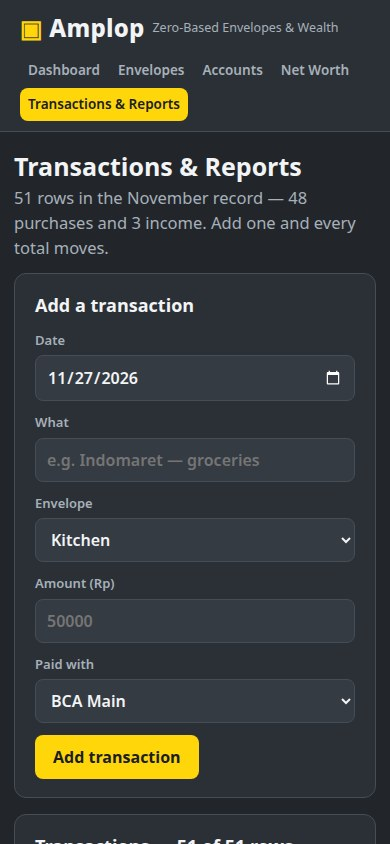
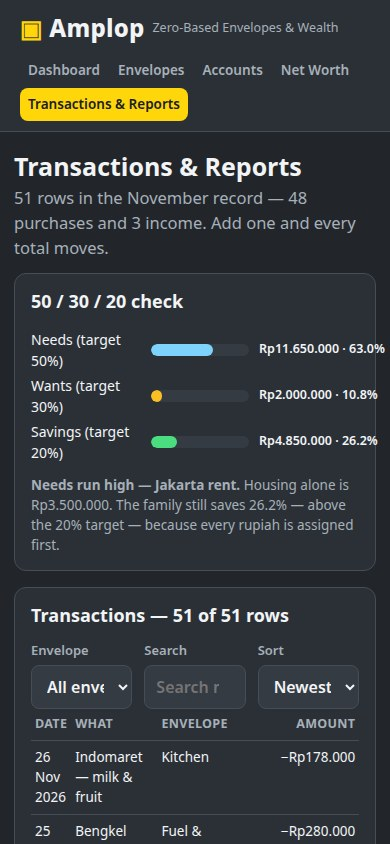
Fix pass 2: F-05 — ledger + 50/30/20 gauge now visible in shot 4 phone frame
Reorder #/transactions: 50/30/20 gauge first, ledger second, add-tx form
after the ledger (option b + gauge above ledger). Measured geometry
showed option (a) alone leaves the gauge ~5,000px below the fold
(51-row table is 4,410px tall), and a closed <details> would break
the scripted add-tx probes that fill the form directly; the form
stays fully open and functional, probes unchanged.
Phone-only (<=640px) compaction so both fit 390x844: filter fits one
row, gauge summary line (duplicate of bar values) + redundant table
caption hidden, ledger table hides 'Paid with' column and tightens
cells so Date/What/Envelope/Amount all fit without horizontal scroll.
Shot 4 re-shot from the same build: gauge fully visible (Needs
Rp11.650.000 63.0% / Wants Rp2.000.000 10.8% / Savings Rp4.850.000
26.2%) + ledger header, filter and first row (26 Nov 2026, Indomaret
— milk & fruit, Kitchen, -Rp178.000) fully in frame. Shots 1-3
byte-identical. No numbers changed; reconcile 56/56 exit 0;
determinism 2x identical (d56e169d...); grader sim (nobody, TZ=UTC)
exit 0, same dossier hash. B3 tagline untouched; no slimming.

diff --git a/app/views.js b/app/views.js
@@ -25,7 +25,7 @@ function txRows(txs, envById) {
 }
 
 function txTable(txs, envById, caption) {
-  return `<table class="tbl"><caption>${caption}</caption><thead><tr><th>Date</th><th>What</th><th>Envelope</th><th>Paid with</th><th class="num">Amount</th></tr></thead><tbody>${txRows(txs, envById)}</tbody></table>`;
+  return `<table class="tbl ledger"><caption>${caption}</caption><thead><tr><th>Date</th><th>What</th><th>Envelope</th><th>Paid with</th><th class="num">Amount</th></tr></thead><tbody>${txRows(txs, envById)}</tbody></table>`;
 }
 
 function envById(state) {
@@ -305,15 +305,14 @@ export function transactions(state, ui) {
     <p class="lede">${state.transactions.length} rows in the November record — ${state.transactions.filter((x) => x.type === 'expense').length} purchases and ${state.transactions.filter((x) => x.type === 'income').length} income. Add one and every total moves.</p>
   </section>
   <section class="card">
-    <h2>Add a transaction</h2>
-    <form data-action="add-tx" class="form-row">
-      <label>Date<input name="date" type="date" value="2026-11-27" min="2026-11-01" max="2026-11-30" required></label>
-      <label>What<input name="merchant" type="text" maxlength="60" placeholder="e.g. Indomaret — groceries" required></label>
-      <label>Envelope<select name="envelope">${state.envelopes.filter((e) => e.kind === 'spending').map((e) => `<option value="${e.id}">${esc(e.name)}</option>`).join('')}</select></label>
-      <label>Amount (Rp)<input name="amount" type="number" min="1" step="1" inputmode="numeric" placeholder="50000" required></label>
-      <label>Paid with<select name="method"><option>BCA Main</option><option>BCA Savings</option><option>GoPay</option><option>OVO</option><option>DANA</option><option>Cash</option></select></label>
-      <button class="btn" type="submit">Add transaction</button>
-    </form>
+    <h2>50 / 30 / 20 check</h2>
+    <p class="lede-sm gauge-sum">Needs ${fmtPct(r.needsPct, 0)} · Wants ${fmtPct(r.wantsPct, 0)} · Savings ${fmtPct(r.savingsPct, 0)} — of ${fmtRp(r.total)} assigned.</p>
+    ${hbars([
+      { label: 'Needs (target 50%)', value: r.needs, text: `${fmtRp(r.needs)} · ${fmtPct(r.needsPct)}`, color: '#7DD3FC' },
+      { label: 'Wants (target 30%)', value: r.wants, text: `${fmtRp(r.wants)} · ${fmtPct(r.wantsPct)}`, color: '#FBBF24' },
+      { label: 'Savings (target 20%)', value: r.savings, text: `${fmtRp(r.savings)} · ${fmtPct(r.savingsPct)}`, color: '#4ADE80' },
+    ], r.total)}
+    <p class="fine"><strong>Needs run high — Jakarta rent.</strong> Housing alone is ${fmtRp(3500000)}. The family still saves ${fmtPct(r.savingsPct)} — above the 20% target — because every rupiah is assigned first.</p>
   </section>
   <section class="card">
     <h2>Transactions — ${rows.length} of ${state.transactions.length} rows</h2>
@@ -328,29 +327,28 @@ export function transactions(state, ui) {
     </form>
     <div class="table-scroll">${txTable(rows, byId, `Transactions, ${rows.length} rows shown`)}</div>
   </section>
-  <div class="grid-2">
-    <section class="card">
-      <h2>50 / 30 / 20 check</h2>
-      <p class="lede-sm">Needs ${fmtPct(r.needsPct, 0)} · Wants ${fmtPct(r.wantsPct, 0)} · Savings ${fmtPct(r.savingsPct, 0)} — of ${fmtRp(r.total)} assigned.</p>
-      ${hbars([
-        { label: 'Needs (target 50%)', value: r.needs, text: `${fmtRp(r.needs)} · ${fmtPct(r.needsPct)}`, color: '#7DD3FC' },
-        { label: 'Wants (target 30%)', value: r.wants, text: `${fmtRp(r.wants)} · ${fmtPct(r.wantsPct)}`, color: '#FBBF24' },
-        { label: 'Savings (target 20%)', value: r.savings, text: `${fmtRp(r.savings)} · ${fmtPct(r.savingsPct)}`, color: '#4ADE80' },
-      ], r.total)}
-      <p class="fine"><strong>Needs run high — Jakarta rent.</strong> Housing alone is ${fmtRp(3500000)}. The family still saves ${fmtPct(r.savingsPct)} — above the 20% target — because every rupiah is assigned first.</p>
-    </section>
-    <section class="card">
-      <h2>November vs October</h2>
-      <table class="tbl"><thead><tr><th></th><th class="num">October</th><th class="num">November</th><th class="num">Change</th></tr></thead><tbody>
-      <tr><td>Income</td><td class="num">${fmtRp(oct.income)}</td><td class="num">${fmtRp(t.income)}</td><td class="num">${fmtDelta(t.income - oct.income)}</td></tr>
-      <tr><td>Spent on living</td><td class="num">${fmtRp(oct.spent)}</td><td class="num">${fmtRp(t.spentLiving)}</td><td class="num txt-good">${fmtDelta(t.spentLiving - oct.spent)}</td></tr>
-      <tr><td>Saved &amp; invested</td><td class="num">${fmtRp(oct.saved)}</td><td class="num">${fmtRp(t.savedInvested)}</td><td class="num txt-good">${fmtDelta(t.savedInvested - oct.saved)}</td></tr>
-      <tr><td>Left unspent</td><td class="num">${fmtRp(oct.left)}</td><td class="num">${fmtRp(t.leftSpending)}</td><td class="num">${fmtDelta(t.leftSpending - oct.left)}</td></tr>
-      <tr><td>Net worth</td><td class="num">${fmtRp(oct.netWorth)}</td><td class="num">${fmtRp(t.netWorth)}</td><td class="num txt-good">${fmtDelta(t.netWorth - oct.netWorth)}</td></tr>
-      </tbody></table>
-      <p class="fine">November spent ${fmtRp(Math.abs(t.spentLiving - oct.spent))} less than October; saved ${fmtRp(t.savedInvested - oct.saved)} more.</p>
-    </section>
-  </div>
+  <section class="card">
+    <h2>Add a transaction</h2>
+    <form data-action="add-tx" class="form-row">
+      <label>Date<input name="date" type="date" value="2026-11-27" min="2026-11-01" max="2026-11-30" required></label>
+      <label>What<input name="merchant" type="text" maxlength="60" placeholder="e.g. Indomaret — groceries" required></label>
+      <label>Envelope<select name="envelope">${state.envelopes.filter((e) => e.kind === 'spending').map((e) => `<option value="${e.id}">${esc(e.name)}</option>`).join('')}</select></label>
+      <label>Amount (Rp)<input name="amount" type="number" min="1" step="1" inputmode="numeric" placeholder="50000" required></label>
+      <label>Paid with<select name="method"><option>BCA Main</option><option>BCA Savings</option><option>GoPay</option><option>OVO</option><option>DANA</option><option>Cash</option></select></label>
+      <button class="btn" type="submit">Add transaction</button>
+    </form>
+  </section>
+  <section class="card">
+    <h2>November vs October</h2>
+    <table class="tbl"><thead><tr><th></th><th class="num">October</th><th class="num">November</th><th class="num">Change</th></tr></thead><tbody>
+    <tr><td>Income</td><td class="num">${fmtRp(oct.income)}</td><td class="num">${fmtRp(t.income)}</td><td class="num">${fmtDelta(t.income - oct.income)}</td></tr>
+    <tr><td>Spent on living</td><td class="num">${fmtRp(oct.spent)}</td><td class="num">${fmtRp(t.spentLiving)}</td><td class="num txt-good">${fmtDelta(t.spentLiving - oct.spent)}</td></tr>
+    <tr><td>Saved &amp; invested</td><td class="num">${fmtRp(oct.saved)}</td><td class="num">${fmtRp(t.savedInvested)}</td><td class="num txt-good">${fmtDelta(t.savedInvested - oct.saved)}</td></tr>
+    <tr><td>Left unspent</td><td class="num">${fmtRp(oct.left)}</td><td class="num">${fmtRp(t.leftSpending)}</td><td class="num">${fmtDelta(t.leftSpending - oct.left)}</td></tr>
+    <tr><td>Net worth</td><td class="num">${fmtRp(oct.netWorth)}</td><td class="num">${fmtRp(t.netWorth)}</td><td class="num txt-good">${fmtDelta(t.netWorth - oct.netWorth)}</td></tr>
+    </tbody></table>
+    <p class="fine">November spent ${fmtRp(Math.abs(t.spentLiving - oct.spent))} less than October; saved ${fmtRp(t.savedInvested - oct.saved)} more.</p>
+  </section>
   <section class="card">
     <h2>Spending by envelope</h2>
     ${hbars(spentRows, maxSpent)}

diff --git a/app/style.css b/app/style.css
@@ -194,6 +194,22 @@ input[type="date"] { min-height: 42px; }
 }
 @media (max-width: 640px) {
   .wrap { padding: 14px; }
+  .card { padding: 14px 16px; }
+  /* Phone compaction for #/transactions (shot 4, 390x844): the ledger
+     filter fits one row, the gauge summary line (a duplicate of the bar
+     values) and the redundant table caption are hidden, so the ledger
+     rows + the 50/30/20 bars both fit in the first viewport. Desktop
+     keeps the full layout. */
+  .form-row.filters label { flex: 1 1 0; min-width: 0; }
+  .gauge-sum { display: none; }
+  .tbl caption { display: none; }
+  .hbar-row { padding: 2px 0; }
+  /* Ledger table: hide the least-important "Paid with" column on phones
+     and tighten cells, so Date / What / Envelope / Amount all fit the
+     390px frame (incl. the Amount numbers) instead of scrolling. */
+  .tbl.ledger th:nth-child(4), .tbl.ledger td:nth-child(4) { display: none; }
+  .tbl.ledger { font-size: 13.5px; }
+  .tbl.ledger th, .tbl.ledger td { padding: 6px 4px; }
   .stats { grid-template-columns: repeat(2, 1fr); }
   .stat-value { font-size: 24px; }
   .env-grid, .acct-grid { grid-template-columns: 1fr; }
